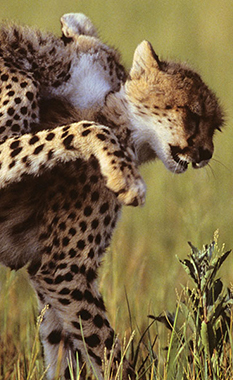
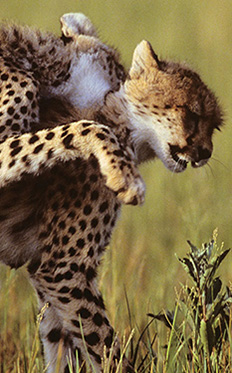
Fix for Issue #165

diff --git a/src/components/homepage/ExploreGatewayGridItem.css b/src/components/homepage/ExploreGatewayGridItem.css
@@ -17,7 +17,7 @@ a.ExploreGatewayGridItemImageAnchor:hover {
 }
 
 img.ui.medium.image.ExploreGatewayGridItemImage {
-  width: 232.5px;
+  width: 232px;
 }
 
 img.ui.medium.image.ExploreGatewayGridItemImage:hover {
